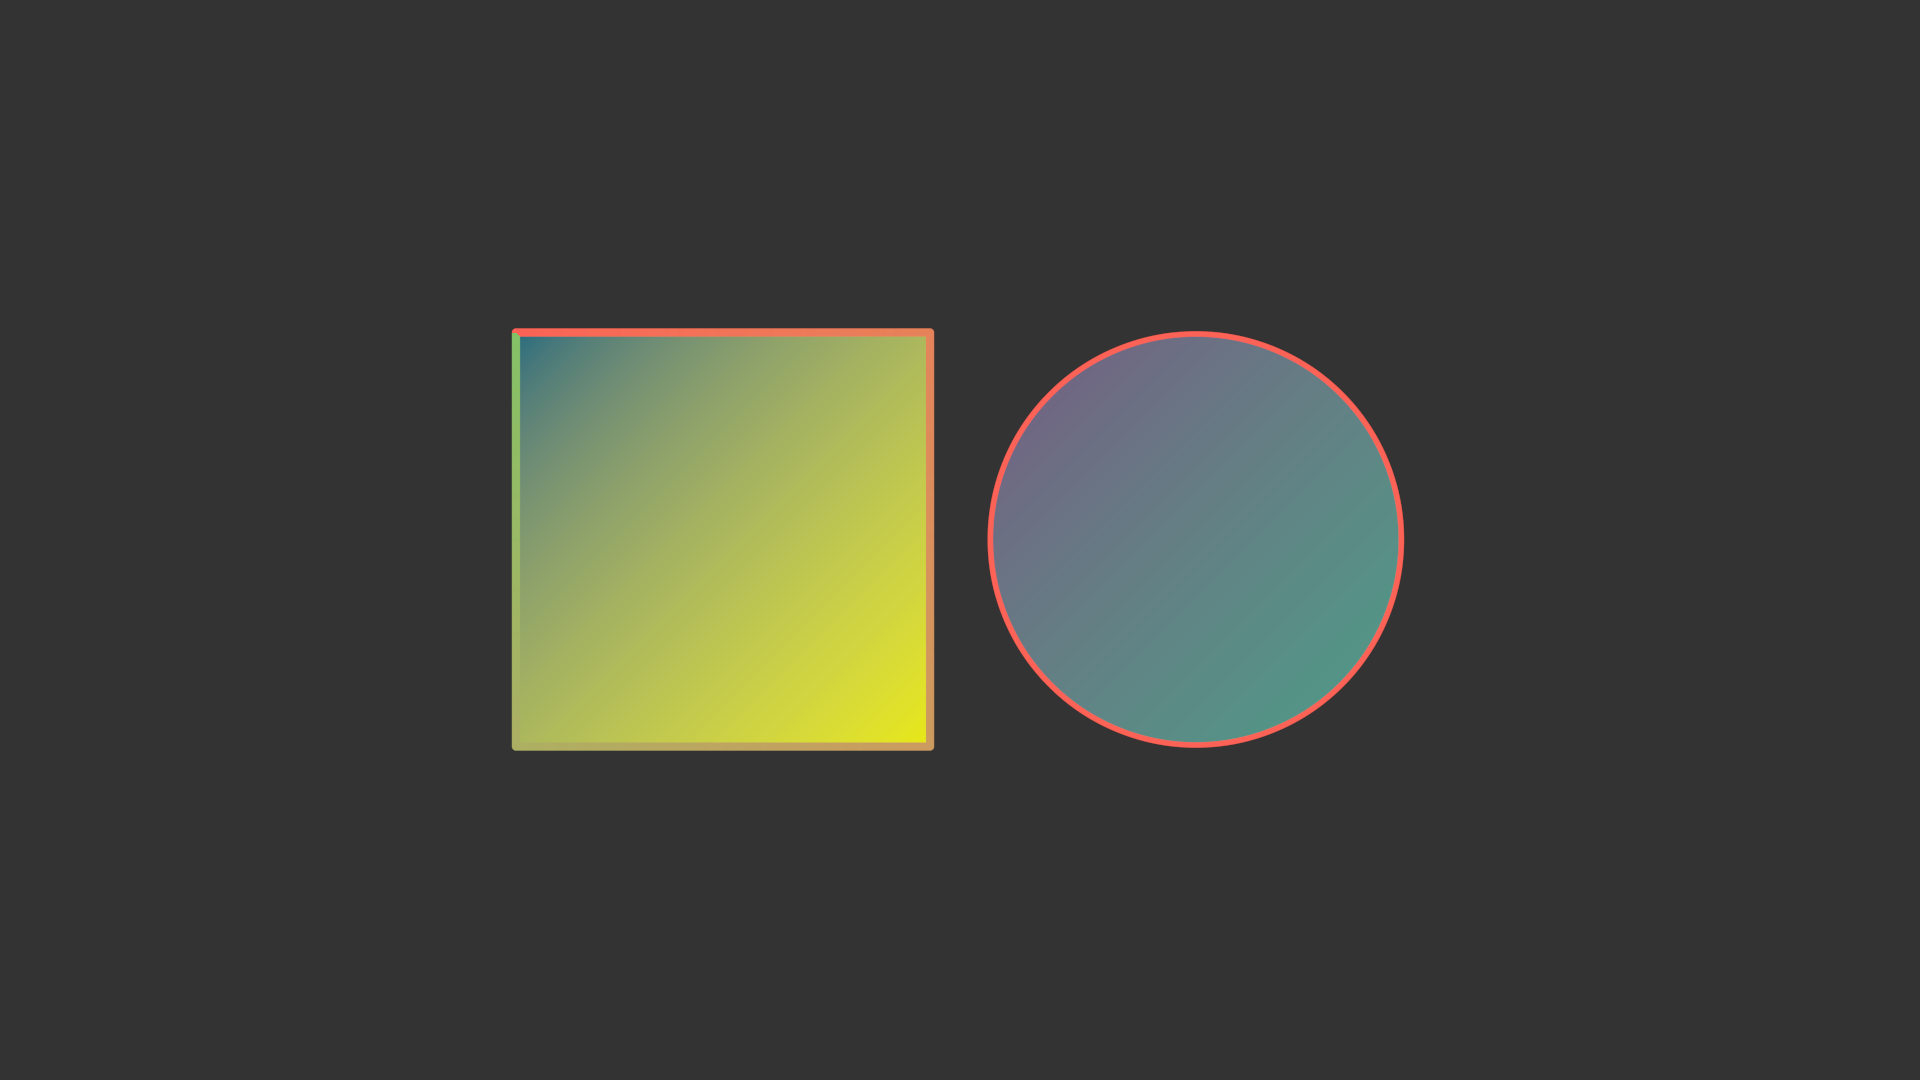
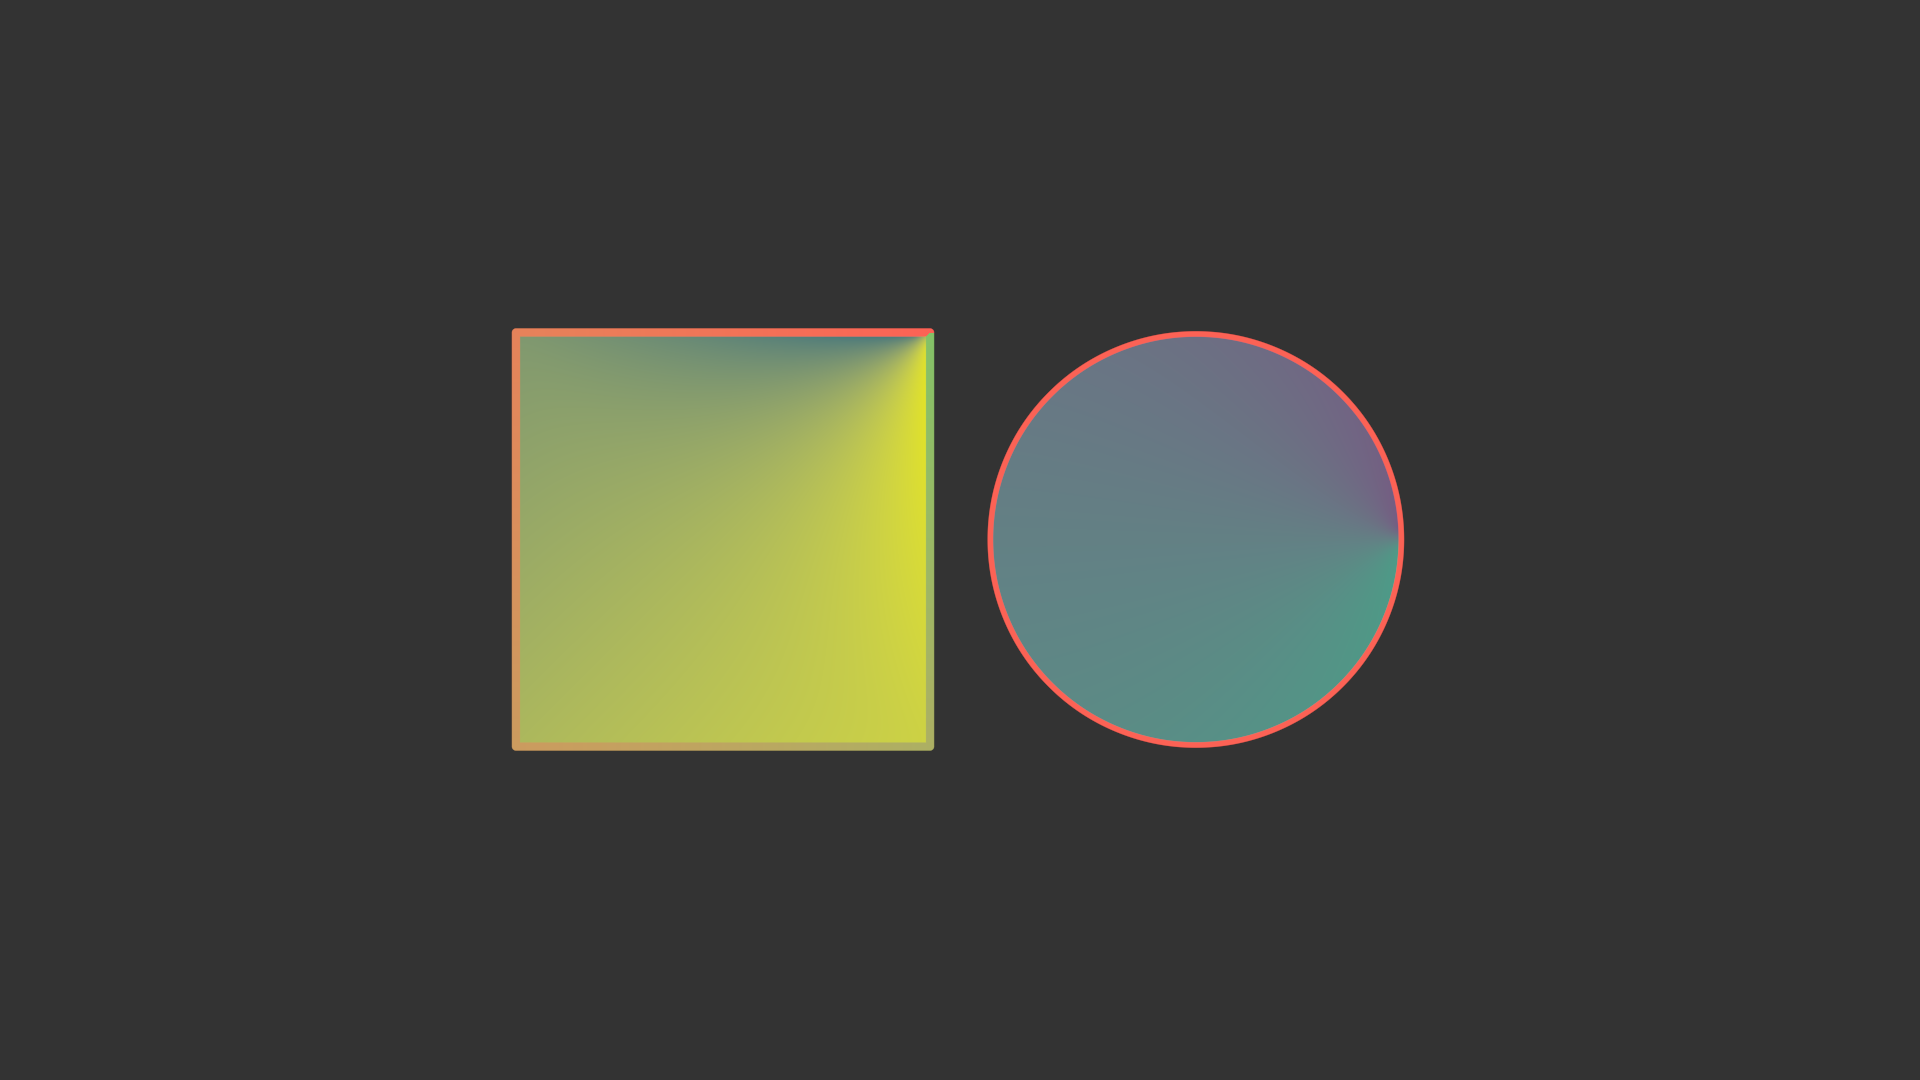
feat(g0): render gradient panel through production Lumen (fm-o3j)

Changed region(s): [[0.375, 0.3056, 0.5, 0.7028], [0.25, 0.3056, 0.3125, 0.7028], [0.6875, 0.3667, 0.75, 0.4889]]

diff --git a/spikes/g0-8-accelerator/src/bin/g0_2_look.rs b/spikes/g0-8-accelerator/src/bin/g0_2_look.rs
@@ -1,11 +1,13 @@
 //! fm-k77 — the G0-2 renderer look study.
 //!
-//! Renders the four calibration panels the analytic prototype can express, in
-//! the *same pixel coordinates* as the one-time Reference captures, so the two
-//! sets can be flipped between rather than merely described. The Reference
-//! stills live in `gallery/reference_captures/` (gitignored, private per the
-//! §15.3 fixture policy); these renders are our own primitives and are
-//! committed under `docs/g0/g0-2-renders/`.
+//! Renders the four 2D calibration panels in the *same pixel coordinates* as
+//! the one-time Reference captures, so the two sets can be flipped between
+//! rather than merely described. The gradient panel runs through production
+//! Lumen; the three panels whose look was already ratified remain the compact
+//! analytic calibration fixtures. The Reference stills live in
+//! `gallery/reference_captures/` (gitignored, private per the §15.3 fixture
+//! policy); these renders are our own primitives and are committed under
+//! `docs/g0/g0-2-renders/`.
 //!
 //! What the comparison is FOR: §20.1 spike 2 fixes Lumen's aesthetic constants
 //! before W5 scales. The constants themselves are decided in
@@ -14,14 +16,21 @@
 //! that evidence — the part a human reviewer signs off on (R2).
 //!
 //! ```text
-//! cargo run --release --bin g0_2_look [-- <output-dir> [--lighting-only]]
+//! cargo run --release --bin g0_2_look [-- <output-dir> [--gradient-only|--lighting-only]]
 //! ```
 
 use fmn_core::color::Srgb;
+use fmn_core::constants::{BLUE_E, GREEN, PURPLE, RED, TEAL, YELLOW};
 use fmn_frame::{FrameBuffer, PixelFormat};
+use fmn_geom::QuadPath;
+use fmn_mobject::{Mob, Mobject, RecordBuffer, RecordSchema, Stage};
+use fmn_render::bin::{Binning, ScreenMap, Tiling, Viewport};
+use fmn_render::engine::{FrameConfig, FrameJob};
+use fmn_render::fill::MonoTable;
+use fmn_render::plan::RenderPlan;
 use fmn_render::{
     CameraConfig, CameraFrame, SurfaceDraw, SurfaceMesh, SurfaceVertex, ThreeDCamera, ThreeDDraw,
-    ThreeDJob, Tiling,
+    ThreeDJob,
 };
 use fmn_spike_accelerator::cpu::{self, Surface};
 use fmn_spike_accelerator::scene::{self, CalibrationPanel};
@@ -36,7 +45,12 @@ const TILE: u32 = 16;
 fn main() -> Result<(), Box<dyn std::error::Error>> {
     let mut args = std::env::args().skip(1);
     let dir = args.next().unwrap_or_else(|| ".".into());
-    let lighting_only = args.any(|argument| argument == "--lighting-only");
+    let modes = args.collect::<Vec<_>>();
+    let lighting_only = modes.iter().any(|argument| argument == "--lighting-only");
+    let gradient_only = modes.iter().any(|argument| argument == "--gradient-only");
+    if lighting_only && gradient_only {
+        return Err("--gradient-only and --lighting-only are mutually exclusive".into());
+    }
     let dir = std::path::Path::new(&dir);
     std::fs::create_dir_all(dir)?;
 
@@ -46,6 +60,20 @@ fn main() -> Result<(), Box<dyn std::error::Error>> {
 
     if !lighting_only {
         for panel in CalibrationPanel::ALL {
+            if gradient_only && panel != CalibrationPanel::GradientFills {
+                continue;
+            }
+            if panel == CalibrationPanel::GradientFills {
+                let frame = render_gradient_fills()?;
+                let name = format!("fmn-{}.png", panel.id().replace('_', "-"));
+                write_frame_png(dir, &name, &frame)?;
+                println!(
+                    "    {:<20} production Lumen  {}",
+                    panel.id(),
+                    describe_frame(&frame),
+                );
+                continue;
+            }
             let ir = scene::calibration(panel, WIDTH, HEIGHT, TILE);
             let surface = cpu::render(&ir);
             let name = format!("fmn-{}.png", panel.id().replace('_', "-"));
@@ -61,17 +89,147 @@ fn main() -> Result<(), Box<dyn std::error::Error>> {
         }
     }
 
-    let lighting = render_lighting_3d()?;
-    write_frame_png(dir, "fmn-lighting-3d.png", &lighting)?;
-    println!(
-        "    {:<20} fixed UV sphere  {}",
-        "lighting_3d",
-        describe_frame(&lighting),
-    );
+    if !gradient_only {
+        let lighting = render_lighting_3d()?;
+        write_frame_png(dir, "fmn-lighting-3d.png", &lighting)?;
+        println!(
+            "    {:<20} fixed UV sphere  {}",
+            "lighting_3d",
+            describe_frame(&lighting),
+        );
+    }
 
     println!();
     println!("Compare against gallery/reference_captures/<id>.png (same pixel grid).");
     Ok(())
+}
+
+fn render_gradient_fills() -> Result<FrameBuffer, Box<dyn std::error::Error>> {
+    let mut stage = Stage::new();
+
+    // Pixel coordinates measured from the Reference capture. Using an identity
+    // ScreenMap keeps the review image registered without making those
+    // measurements part of any runtime API.
+    // The Reference Square is `UR -> UL -> DL -> DR`. Its camera flips world
+    // y into image rows, so preserve that *screen-space* point order here:
+    // top-right -> top-left -> bottom-left -> bottom-right.
+    let square = polygon(&[
+        [930.0, 332.5],
+        [516.0, 332.5],
+        [516.0, 746.5],
+        [930.0, 746.5],
+    ])?;
+    add_gradient(
+        &mut stage,
+        &square,
+        GradientStyle {
+            fill: (BLUE_E, YELLOW, 0.8),
+            stroke: (RED, GREEN, 810.0, 1.0),
+        },
+    )?;
+
+    let circle = QuadPath::arc(
+        0.0,
+        -std::f64::consts::TAU,
+        205.48,
+        [1195.86, 539.49, 0.0],
+        None,
+    );
+    add_gradient(
+        &mut stage,
+        &circle,
+        GradientStyle {
+            fill: (PURPLE, TEAL, 0.5),
+            stroke: (RED, RED, 540.0, 1.0),
+        },
+    )?;
+
+    let config = FrameConfig::new(
+        Viewport {
+            width: WIDTH,
+            height: HEIGHT,
+        },
+        ScreenMap {
+            scale: 1.0,
+            origin: [0.0, 0.0],
+        },
+        Srgb::from_rgb8(0x33, 0x33, 0x33).to_linear(1.0),
+    );
+    let mut plan = RenderPlan::new();
+    plan.sync(&stage, 0);
+    let mono = MonoTable::build(&plan, config.map);
+    let mut binning = Binning::build(&plan, config.viewport, Tiling::default(), config.map);
+    binning.prune_occluded(&plan)?;
+    Ok(FrameJob::new(&plan, &mono, &binning, config)?.render(4)?)
+}
+
+#[derive(Debug, Clone, Copy)]
+struct GradientStyle {
+    fill: (Srgb, Srgb, f64),
+    stroke: (Srgb, Srgb, f64, f64),
+}
+
+fn add_gradient(
+    stage: &mut Stage,
+    path: &QuadPath,
+    style: GradientStyle,
+) -> Result<Mob, Box<dyn std::error::Error>> {
+    let mob = stage.add(gradient_mobject(path, style)?);
+    stage.add_to_scene(mob)?;
+    Ok(mob)
+}
+
+#[allow(clippy::cast_possible_truncation)]
+fn gradient_mobject(
+    path: &QuadPath,
+    style: GradientStyle,
+) -> Result<Mobject, Box<dyn std::error::Error>> {
+    let mut buffer = RecordBuffer::new(RecordSchema::vmobject(), path.points().len());
+    let fill = srgb_record(style.fill.0, style.fill.2);
+    let stroke = srgb_record(style.stroke.0, style.stroke.3);
+    for (index, point) in path.points().iter().enumerate() {
+        if !buffer.write(
+            index,
+            "point",
+            &[point[0] as f32, point[1] as f32, point[2] as f32],
+        ) || !buffer.write(index, "fill_rgba", &fill)
+            || !buffer.write(index, "stroke_rgba", &stroke)
+            || !buffer.write(index, "stroke_width", &[style.stroke.2 as f32])
+        {
+            return Err("gallery VMobject schema is missing a required render field".into());
+        }
+    }
+    let last = buffer
+        .len()
+        .checked_sub(1)
+        .ok_or("gallery path unexpectedly has no records")?;
+    if !buffer.write(last, "fill_rgba", &srgb_record(style.fill.1, style.fill.2))
+        || !buffer.write(
+            last,
+            "stroke_rgba",
+            &srgb_record(style.stroke.1, style.stroke.3),
+        )
+    {
+        return Err("gallery gradient fields are absent from the VMobject schema".into());
+    }
+    Ok(Mobject::from_buffer(buffer))
+}
+
+fn srgb_record(color: Srgb, alpha: f64) -> [f32; 4] {
+    [color.r as f32, color.g as f32, color.b as f32, alpha as f32]
+}
+
+fn polygon(points: &[[f64; 2]]) -> Result<QuadPath, Box<dyn std::error::Error>> {
+    let first = points
+        .first()
+        .ok_or("gallery polygon unexpectedly has no points")?;
+    let mut path = QuadPath::default();
+    path.start_new_path([first[0], first[1], 0.0]);
+    for point in &points[1..] {
+        path.add_line_to([point[0], point[1], 0.0], false)?;
+    }
+    path.add_line_to([first[0], first[1], 0.0], false)?;
+    Ok(path)
 }
 
 fn render_lighting_3d() -> Result<FrameBuffer, Box<dyn std::error::Error>> {

diff --git a/docs/g0/G0-2-look-study-ratification.md b/docs/g0/G0-2-look-study-ratification.md
@@ -2,9 +2,10 @@
 
 **Status:** Ratified, 2026-07-25. **Verdict: the 3b1b look is KEPT, and every
 constant that defines it is now a measured number rather than a remembered
-one.** Six of §20.1 spike 2's decisions are fixed below with their evidence;
-the one that cannot yet be fixed by measurement is named as such, with the
-bead that owns it.
+one.** Six of §20.1 spike 2's decisions are fixed below with their evidence.
+W5's completed interior colour field now makes the last comparison panel
+reviewable; §6 records the marshal's recommendation without substituting it
+for G1's required program-owner verdict.
 
 **Why this spike exists (D-04, R2).** The Reference's look constants are the
 aesthetic DNA of 3Blue1Brown and are kept deliberately — but they were tuned
@@ -30,9 +31,9 @@ was the finding — see L2 and L5.
 
 **The rendered evidence.** `docs/g0/g0-2-renders/` holds five panels at the
 capture resolution, in the *same pixel coordinates* as the Reference stills:
-four from the analytic prototype and `lighting_3d` from Lumen's integrated 3D
-path. They are produced by
-`cargo run --release --bin g0_2_look` in `spikes/g0-8-accelerator`. The
+`gradient_fills` from production Lumen, three settled panels from the compact
+analytic calibration fixture, and `lighting_3d` from Lumen's integrated 3D
+path. They are produced by `g0_2_look` in `spikes/g0-8-accelerator`. The
 Reference stills stay private (§15.3); ours are our own primitives and are
 committed.
 
@@ -385,8 +386,24 @@ Verdicts in §16.3's vocabulary:
 | `self_intersections` | **at-least-as-good** | The Reference's star core is visibly **lighter** than its limbs: winding number 2 composites the fill twice through the signed-alpha trick. Ours renders one uniform colour, which is what the nonzero rule means. |
 | `joints_and_caps` | **different-but-fine** (Behavior-Noted) | Four different corners become one round join; no notch at any vertex, and round caps at the ends. L6. |
 | `glow` | **at-least-as-good** | Falloff character matches (L7). Registration is close, not exact — our disc reads slightly larger, since `GlowDot`'s `radius` parameter and the visible extent are not the same quantity. |
-| `gradient_fills` | **open — fm-5oi decides** | The Reference shows a hard **diagonal seam** across the square: its fill gradient is per-vertex around the outline, interpolated across the triangle fan from `base_point`, so the fan edges are Gouraud discontinuities. Ours is smooth — but ours is a *defined stand-in* (a screen-space axis), not §10.2's interior field. The real field is fm-5oi's to build, and this panel is its calibration input, not a settled result. |
+| `gradient_fills` | **owner review pending — marshal recommends different-but-fine (Behavior-Noted)** | This now runs through production Lumen's §10.2 field. The Reference's hard **diagonal seam** comes from per-vertex colour interpolated across its triangle fan; ours is the smooth, true-arclength boundary ramp extended by mean value coordinates. Gradient direction, opacity, stroke ramp, and capture registration agree. The smoother, subdivision-stable field is the deliberate BN-06 behavior fm-5oi landed. The marshal found no regression candidate; governance still requires the program owner to record the human Gallery verdict against the G1 packet. |
 | `lighting_3d` | **at-least-as-good** | The integrated Lumen path uses the exact capture inputs: `Sphere(radius=2)`, the Reference's `(101, 51)` UV grid and parameterization, BLUE_E, and `frame.reorient(20, 70)`. Silhouette, light direction, and retained Gouraud shading coincide closely. Whole-frame normalized RMSE is **0.00212857** and normalized SSIM distortion is **0.000145104**; these are smoke alarms, not gates. |
+
+The production gradient panel is reproduced with:
+
+```bash
+cargo run --release --locked \
+  --manifest-path spikes/g0-8-accelerator/Cargo.toml \
+  --bin g0_2_look -- docs/g0/g0-2-renders --gradient-only
+```
+
+Its Rgba16F framebuffer SHA-256 is
[1 lines of base64/hex data omitted]
+the committed canonical PNG SHA-256 is
[1 lines of base64/hex data omitted]
+The registered whole-frame normalized RMSE against the private capture is
+**0.0483394**. That metric sees the intentionally different interior field and
+is a smoke alarm, not a pass threshold.
 
 The lighting panel is reproduced with:
 
@@ -430,9 +447,10 @@ affect any constant decided above.
 
 ## 8. Follow-ups
 
-- **fm-5oi** — analytic fill. Consumes (a) and L3; the `gradient_fills` panel
-  is its calibration input, and §10.2's interior colour field is the open
-  question there, not the coverage.
+- **fm-5oi** (closed) — analytic fill consumed (a) and L3 and landed §10.2's
+  mean-value-coordinate interior colour field. Its production
+  `gradient_fills` panel is review-ready above; G1's program owner owns the
+  final Gallery verdict.
 - **fm-oac** — strokes. Consumes (b), (c), L6, and the 3.1623 miter limit.
 - **fm-6cf** — the cubic→quad converter. Consumes (f)'s 0.1 px default and L8's
   measured baseline.
